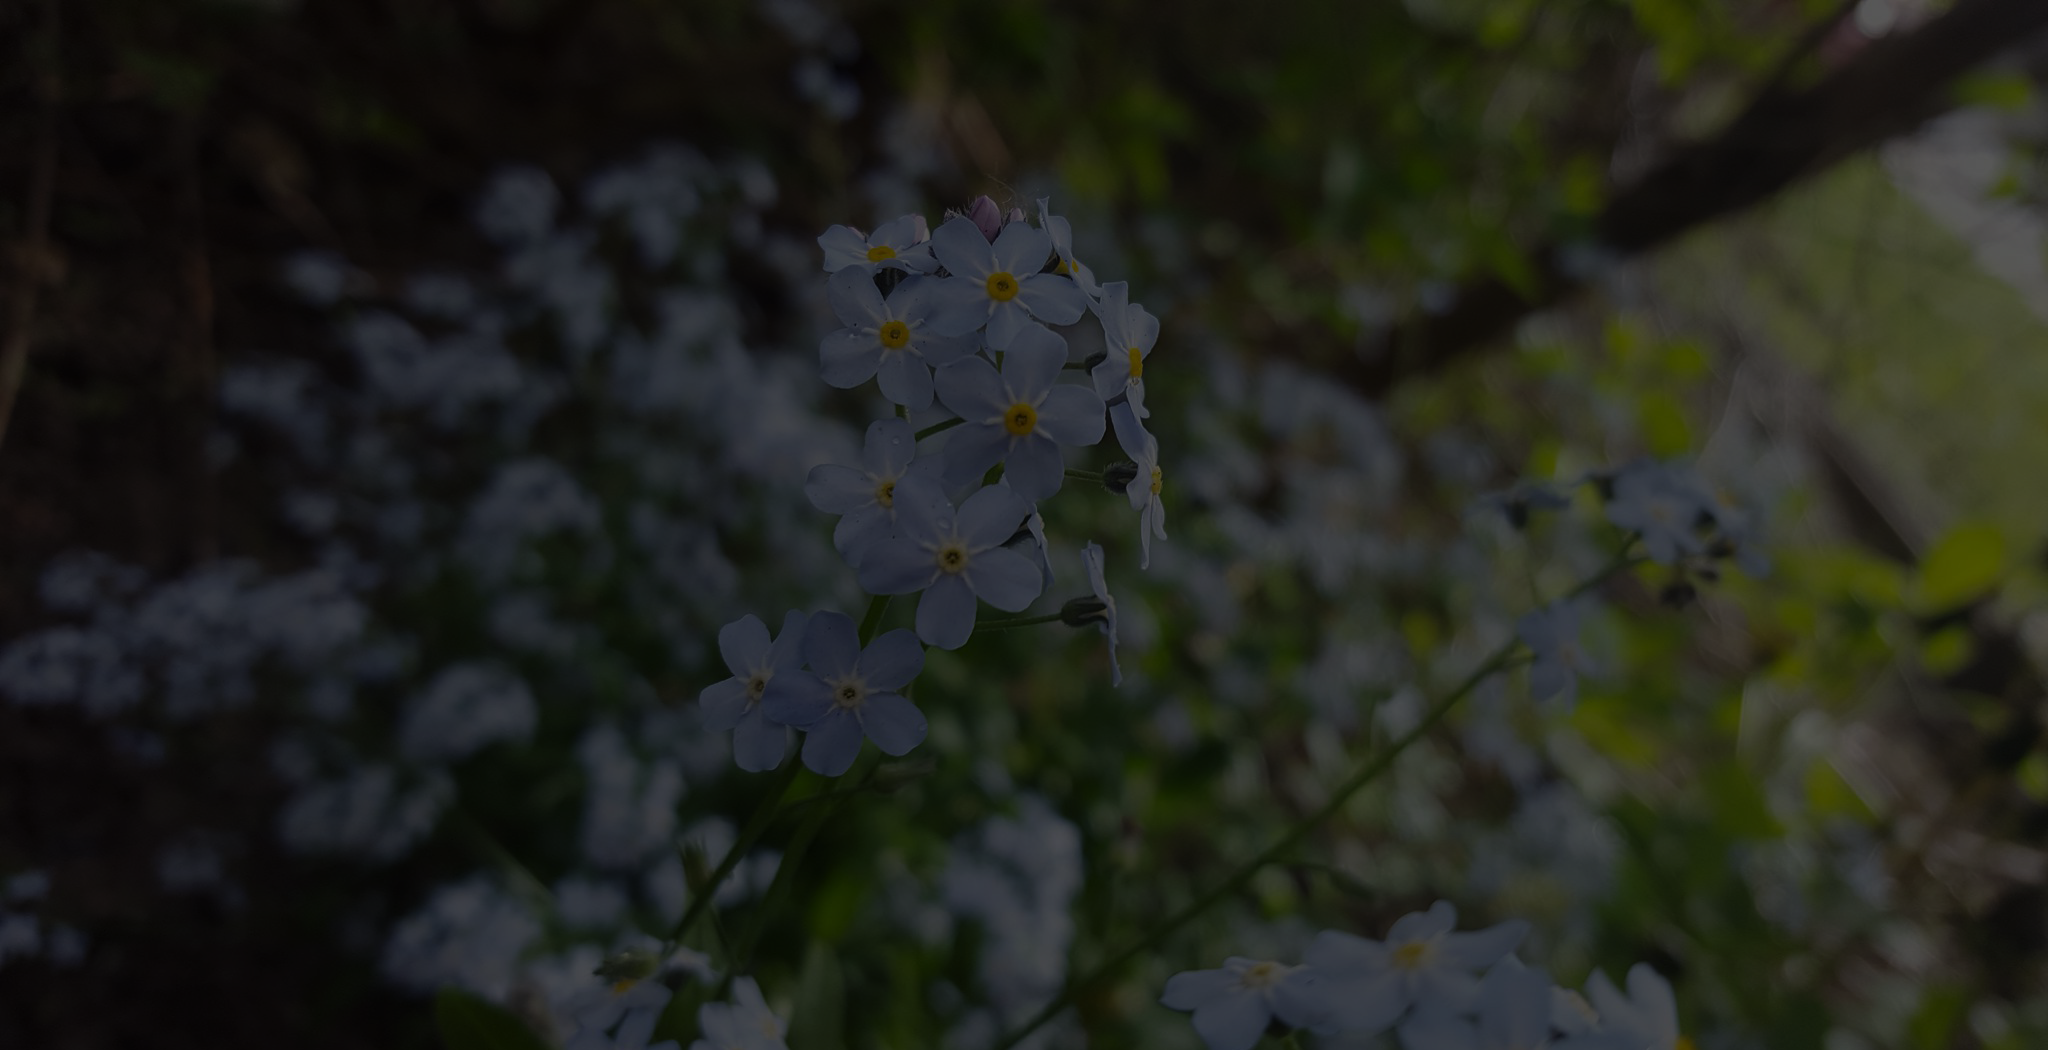
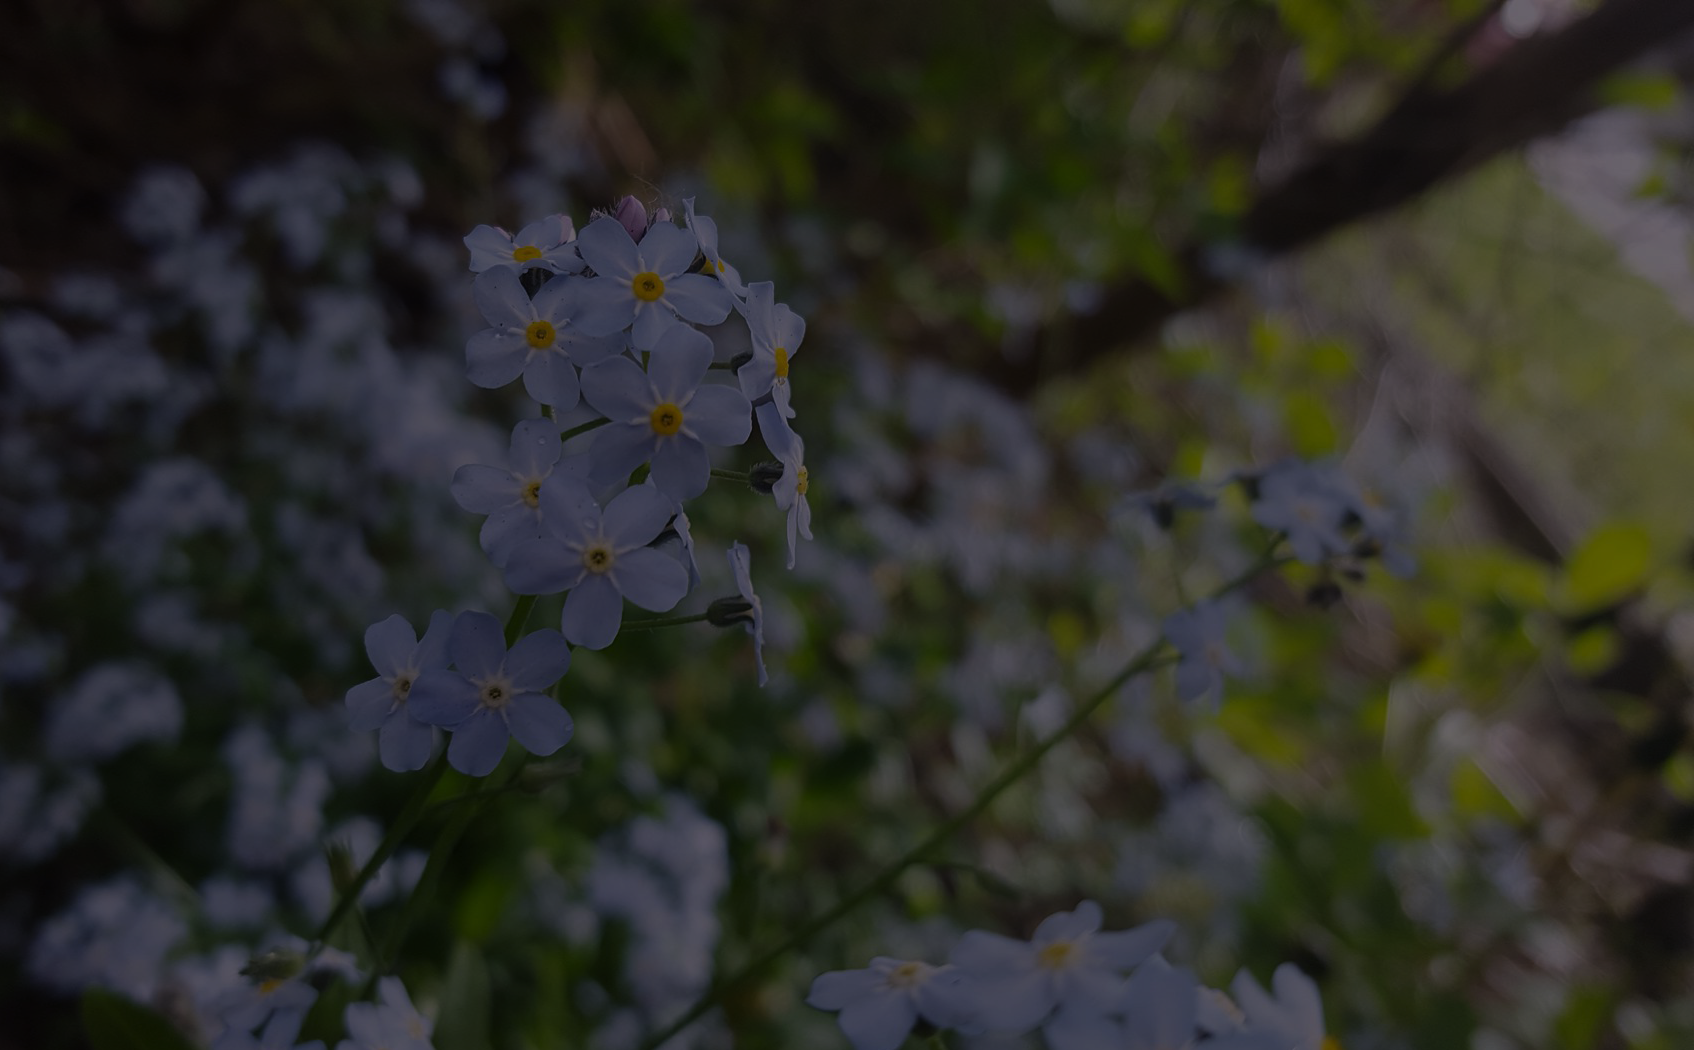
edit header omg

diff --git a/css/general.css b/css/general.css
@@ -49,7 +49,7 @@ img {
 /* HEADER */
 
 .masthead{
-	background: transparent url("../img/forget-dim.png") no-repeat center top;
+	background: transparent url("../img/forget-mobile-dim.png") no-repeat center top;
 	background-size: cover;
 }
 
@@ -474,7 +474,7 @@ footer ul li{
 @media only screen and (min-width: 38em){
 
 	.masthead{
-		background: transparent url("../img/faux-banner-dim.jpg") no-repeat center top;
+		background: transparent url("../img/forget-dim.png") no-repeat center top;
 		background-size: cover;
 	}
 
